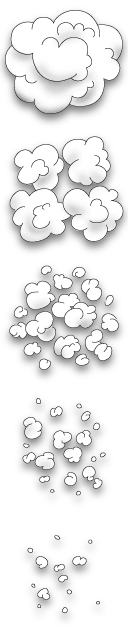
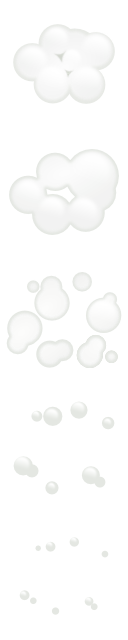
Update poof to remove potential IP issues Update DnD code to set RetVal when presented

diff --git a/Do.Interface.Linux.Docky/src/Docky.Interface/DnDTracker.cs b/Do.Interface.Linux.Docky/src/Docky.Interface/DnDTracker.cs
@@ -260,6 +260,7 @@ namespace Docky.Interface
 			}
 			
 			Gtk.Drag.Finish (args.Context, true, true, args.Time);
+			args.RetVal = true;
 		}
 
 		void HandleDragEnd (object o, DragEndArgs args)
@@ -283,6 +284,7 @@ namespace Docky.Interface
 		
 			OnDragEnded ();
 			OnDrawRequired ();
+			args.RetVal = true;
 		}
 
 		void HandleDragBegin (object o, DragBeginArgs args)
@@ -305,6 +307,7 @@ namespace Docky.Interface
 				
 			if (pbuf != null)
 				Gtk.Drag.SetIconPixbuf (args.Context, pbuf, pbuf.Width / 2, pbuf.Height / 2);
+			args.RetVal = true;
 		}
 
 		void HandleDragMotionEvent (object o, DragMotionArgs args)
@@ -353,11 +356,8 @@ namespace Docky.Interface
 				uriList = Enumerable.Empty<string> ();
 			}
 			
-			
 			uri_list = uriList;
-				
 			PreviewIsDesktopFile = !uriList.Any () || uriList.Any (s => s.EndsWith (".desktop"));
-			
 			args.RetVal = true;
 		}
 		
